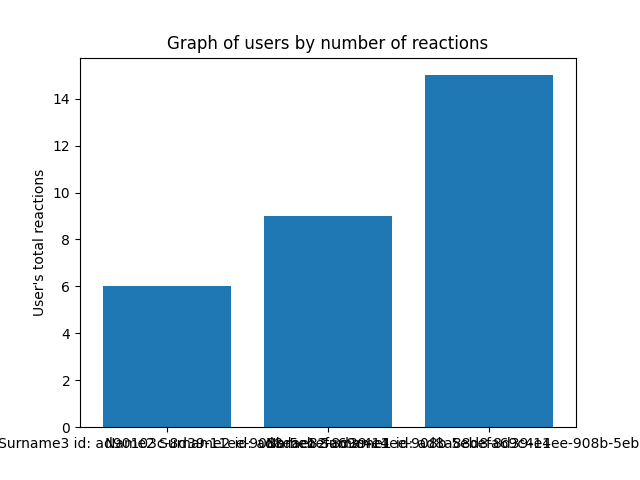
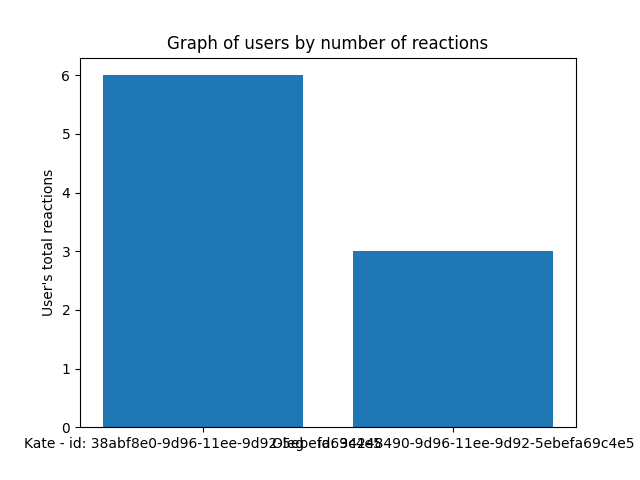
(ошибка с кол-вом реакция пользоавтеля исправлена)

diff --git a/app/views/users_route.py b/app/views/users_route.py
@@ -170,7 +170,7 @@ def get_statistics():
         fig, ax = plt.subplots()
 
         user_names = [
-            f'{user["first_name"]} {user["last_name"]} id: {user["id"]}'
+            f'{user["first_name"]} {user["last_name"]}'
             for user in sorted_users
         ]
         users_reactions = [user["total_reactions"] for user in sorted_users]
